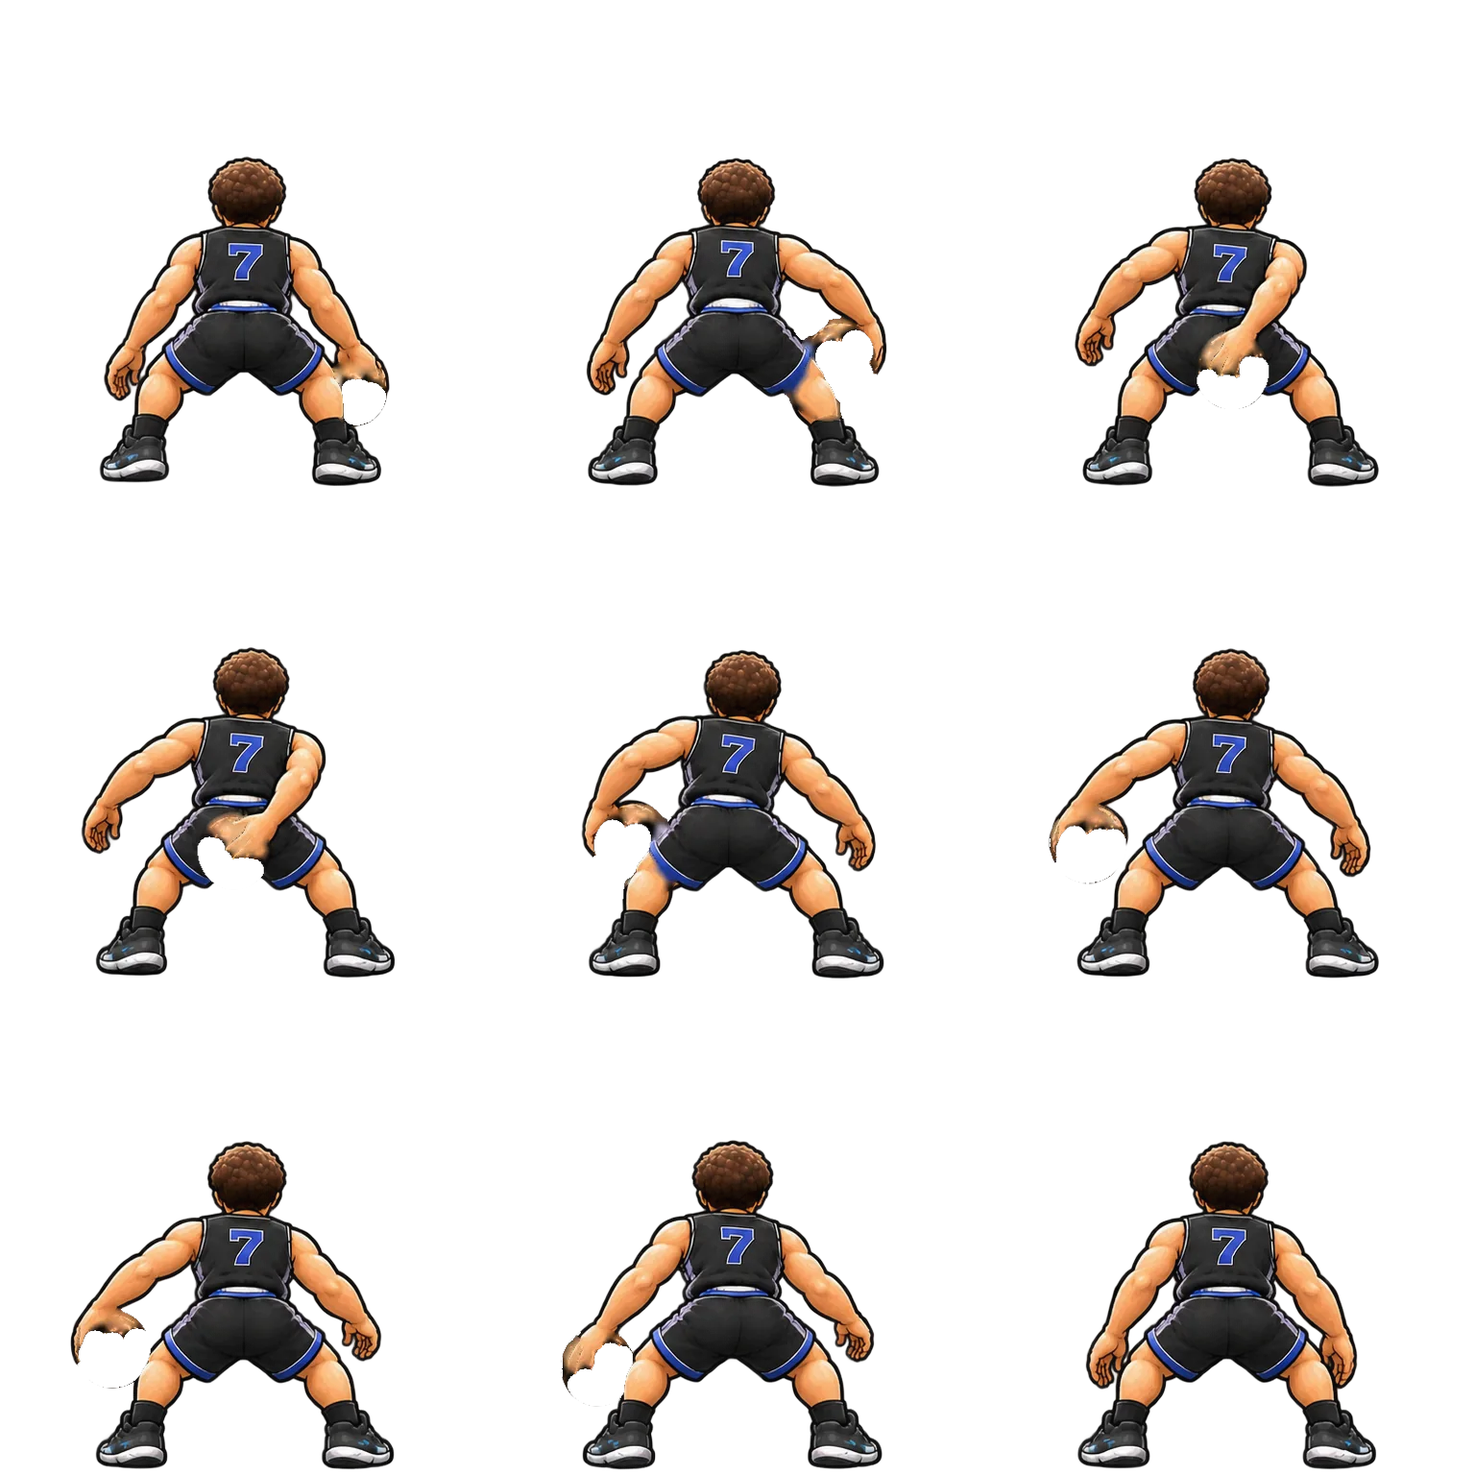
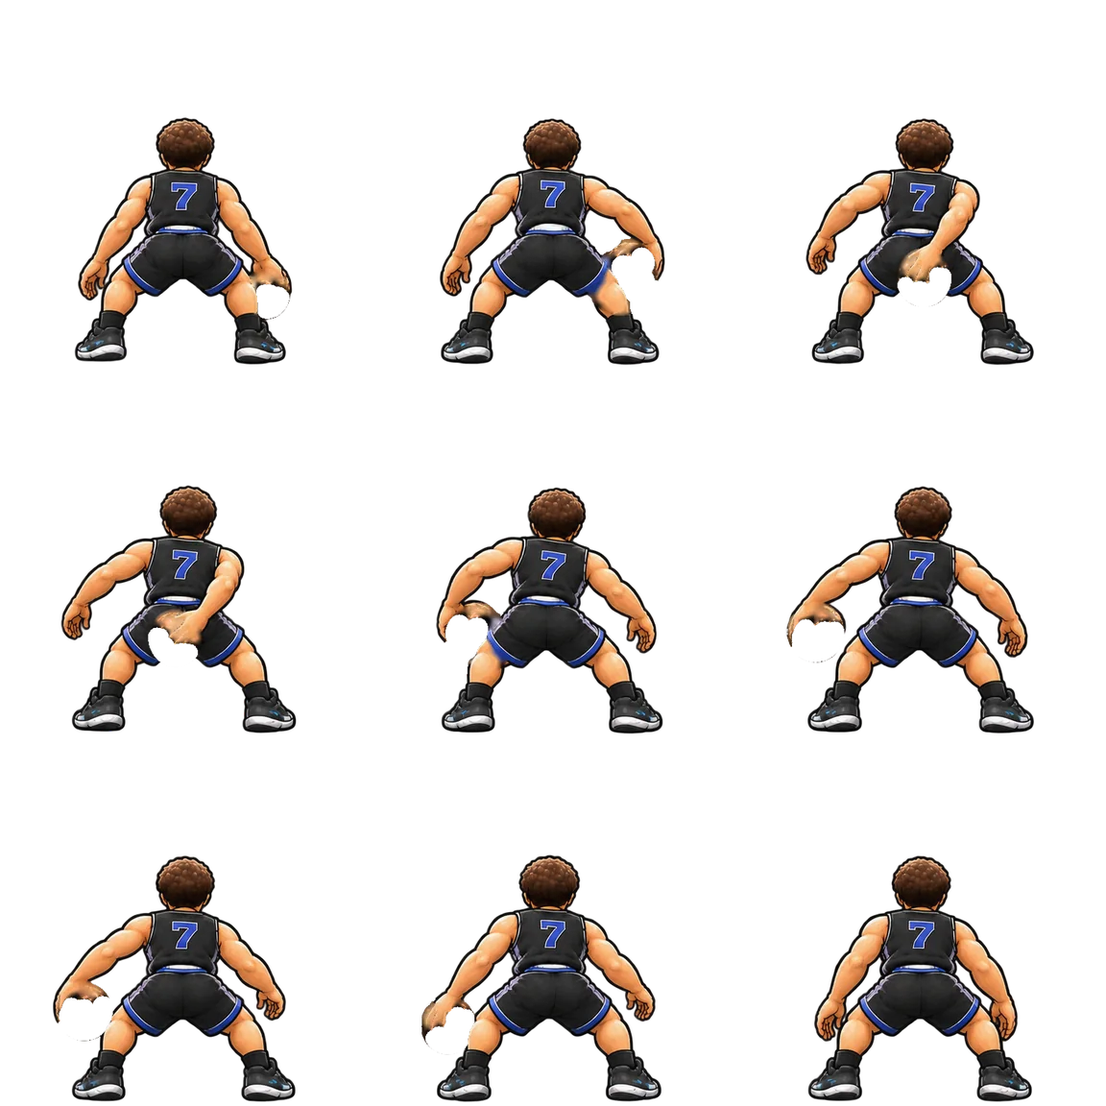
ボールまわし（頭・ひざ・股下8の字）をリアル寄りの新しい絵に／ゴール後に止まる対策（絵のメモリを減らして終了時に解放、結果画面のエラー対策）
Claude-Session: https://claude.ai/code/session_01BV7VTayadibtSK45JjDBAS

diff --git a/js/sprite7.js b/js/sprite7.js
@@ -1,8 +1,8 @@
 // あたらしい しゅじんこう（7ばん）の 絵の コマえらびと ボールの いち
 // ・シートは 3×3（1コマ 512px ＝ 2.2）。うしろすがた。x は 画面の 右が ＋、y は 足元が 0、z は カメラがわ（せなか がわ）が ＋
 // ・P は コマごとの 手（L/R）と、もとの 絵に かいてあった ボール（ball：x, y, 見えていた わりあい）の いち（/tmp/n7/build2.py で はかった）
-export const SHEETS7 = ["drib2R", "cross", "turnL", "turnR", "inoutR", "inoutL", "behind", "legs", "side", "jabR", "jabL", "spin", "head", "waist", "knees"]; // つかう シートだけ よみこむ
-const P = {"dribR":[{"L":[-0.463,0.463],"R":[0.438,0.451]},{"L":[-0.368,0.686],"R":[0.569,0.343]},{"L":[-0.376,0.729],"R":[0.638,0.305]},{"L":[-0.572,0.845],"R":[0.616,0.235]},{"L":[-0.529,0.687],"R":[0.516,0.416]},{"L":[-0.563,0.625],"R":[0.59,0.452]},{"L":[-0.57,0.482],"R":[0.541,0.423]},{"L":[-0.533,0.405],"R":[0.481,0.442]},{"L":[-0.483,0.419],"R":[0.471,0.43]}],"dribL":[{"L":[-0.442,0.451],"R":[0.458,0.463]},{"L":[-0.573,0.343],"R":[0.365,0.686]},{"L":[-0.642,0.305],"R":[0.372,0.729]},{"L":[-0.62,0.236],"R":[0.568,0.846]},{"L":[-0.52,0.416],"R":[0.525,0.687]},{"L":[-0.594,0.452],"R":[0.558,0.625]},{"L":[-0.545,0.423],"R":[0.566,0.482]},{"L":[-0.485,0.442],"R":[0.529,0.405]},{"L":[-0.475,0.43],"R":[0.478,0.419]}],"drib2R":[{"L":[-0.545,0.461],"R":[0.525,0.462]},{"L":[-0.594,0.582],"R":[0.55,0.421]},{"L":[-0.623,0.68],"R":[0.69,0.293]},{"L":[-0.626,0.77],"R":[0.558,0.212]},{"L":[-0.592,0.705],"R":[0.599,0.356]},{"L":[-0.575,0.591],"R":[0.575,0.432]},{"L":[-0.558,0.557],"R":[0.556,0.542]},{"L":[-0.544,0.547],"R":[0.596,0.523]},{"L":[-0.532,0.493],"R":[0.537,0.505]}],"drib2L":[{"L":[-0.529,0.462],"R":[0.54,0.461]},{"L":[-0.554,0.42],"R":[0.59,0.583]},{"L":[-0.694,0.293],"R":[0.619,0.68]},{"L":[-0.562,0.212],"R":[0.622,0.771]},{"L":[-0.603,0.356],"R":[0.587,0.706]},{"L":[-0.579,0.431],"R":[0.571,0.591]},{"L":[-0.561,0.542],"R":[0.554,0.556]},{"L":[-0.601,0.523],"R":[0.539,0.547]},{"L":[-0.542,0.505],"R":[0.527,0.493]}],"cross":[{"L":[-0.517,0.513],"R":[0.56,0.459]},{"L":[-0.539,0.484],"R":[0.701,0.47]},{"L":[-0.516,0.65],"R":[0.894,0.62]},{"L":[-0.704,0.789],"R":[0.94,0.637]},{"L":[-0.723,0.781],"R":[0.679,0.636]},{"L":[-0.609,0.647],"R":[0.335,0.706]},{"L":[-0.676,0.513],"R":[0.339,0.715]},{"L":[-0.845,0.539],"R":[0.402,0.666]},{"L":[-0.688,0.46],"R":[0.608,0.444]}],"turnL":[{"L":[-0.464,0.475],"R":[0.394,0.462]},{"L":[-0.498,0.535],"R":[0.44,0.613]},{"L":[-0.507,0.628],"R":[0.581,0.654]},{"L":[-0.532,0.794],"R":[0.478,0.803]},{"L":[-0.519,0.679],"R":[0.466,0.69]},{"L":[-0.553,0.549],"R":[0.298,0.732]},{"L":[-0.112,1.115],"R":[0.41,0.695]},{"L":[-0.127,1.094],"R":[0.33,0.606]},{"L":[-0.231,1.053],"R":[0.365,0.631]}],"turnR":[{"L":[-0.399,0.462],"R":[0.459,0.475]},{"L":[-0.445,0.613],"R":[0.494,0.535]},{"L":[-0.585,0.654],"R":[0.503,0.628]},{"L":[-0.483,0.803],"R":[0.527,0.794]},{"L":[-0.471,0.69],"R":[0.515,0.679]},{"L":[-0.302,0.732],"R":[0.549,0.549]},{"L":[-0.416,0.695],"R":[0.108,1.115]},{"L":[-0.336,0.606],"R":[0.123,1.094]},{"L":[-0.369,0.631],"R":[0.204,1.056]}],"inoutR":[{"L":[-0.461,0.488],"R":[0.351,0.504]},{"L":[-0.447,0.538],"R":[0.591,0.591]},{"L":[-0.514,0.548],"R":[0.627,0.78]},{"L":[-0.461,0.538],"R":[0.624,0.818]},{"L":[-0.487,0.484],"R":[0.521,0.577]},{"L":[-0.543,0.468],"R":[0.375,0.615]},{"L":[-0.53,0.469],"R":[0.336,0.616]},{"L":[-0.69,0.792],"R":[0.438,0.598]},{"L":[-0.715,0.755],"R":[0.431,0.609]}],"inoutL":[{"L":[-0.355,0.504],"R":[0.457,0.488]},{"L":[-0.595,0.591],"R":[0.443,0.538]},{"L":[-0.631,0.78],"R":[0.511,0.548]},{"L":[-0.628,0.818],"R":[0.457,0.538]},{"L":[-0.525,0.577],"R":[0.482,0.484]},{"L":[-0.38,0.615],"R":[0.538,0.468]},{"L":[-0.341,0.616],"R":[0.526,0.469]},{"L":[-0.443,0.598],"R":[0.686,0.792]},{"L":[-0.436,0.609],"R":[0.711,0.754]}],"behind":[{"ball":[0.487,0.429,0.75],"L":[-0.58,0.472],"R":[0.362,0.365]},{"ball":[0.403,0.533,0.54],"L":[-0.628,0.516],"R":[0.626,0.612]},{"ball":[0.011,0.525,0.79],"L":[-0.646,0.638],"R":[-0.041,0.57]},{"ball":[-0.054,0.575,0.78],"L":[-0.687,0.667],"R":[-0.043,0.616]},{"ball":[-0.442,0.563,0.52],"L":[-0.657,0.654],"R":[0.565,0.589]},{"ball":[-0.634,0.609,0.89],"L":[-0.774,0.65],"R":[0.583,0.563]},{"ball":[-0.6,0.55,0.92],"L":[-0.75,0.581],"R":[0.547,0.592]},{"ball":[-0.628,0.463,0.78],"L":[-0.719,0.504],"R":[0.555,0.587]},{"L":[-0.588,0.471],"R":[0.527,0.461]}],"legs":[{"ball":[0.407,0.56,0.8],"L":[-0.478,0.377],"R":[0.347,0.331]},{"ball":[0.511,0.381,0.77],"L":[-0.502,0.429],"R":[0.479,0.356]},{"ball":[-0.042,0.299,0.85],"L":[-0.458,0.403],"R":[0.047,0.344]},{"ball":[0.026,0.276,0.88],"L":[-0.318,0.695],"R":[0.114,0.328]},{"ball":[-0.144,0.269,0.95],"L":[-0.426,0.603],"R":[0.275,0.693]},{"ball":[-0.502,0.414,0.6],"L":[-0.62,0.468],"R":[0.546,0.49]},{"ball":[-0.511,0.515,0.81],"L":[-0.627,0.583],"R":[0.484,0.464]},{"ball":[-0.573,0.464,0.93],"L":[-0.487,0.382],"R":[0.475,0.427]},{"ball":[-0.503,0.457,0.68],"L":[-0.442,0.376],"R":[0.547,0.459]}],"side":[{"L":[-0.528,0.509],"R":[0.522,0.523]},{"L":[-0.417,0.729],"R":[0.584,0.501]},{"L":[-0.36,0.765],"R":[0.157,1.151]},{"L":[-0.52,0.725],"R":[0.157,1.14]},{"L":[-0.574,0.668],"R":[0.126,1.088]},{"L":[-0.534,0.566],"R":[0.398,0.704]},{"L":[-0.694,0.713],"R":[0.274,0.774]},{"L":[-0.71,0.685],"R":[0.269,0.825]},{"L":[-0.508,0.579],"R":[0.561,0.554]}],"stepR":[{"L":[-0.417,0.659],"R":[0.389,0.65]},{"L":[-0.432,0.708],"R":[0.437,0.697]},{"L":[-0.503,0.709],"R":[0.407,0.702]},{"L":[-0.522,0.707],"R":[0.428,0.708]},{"L":[-0.554,0.71],"R":[0.427,0.7]},{"L":[-0.513,0.707],"R":[0.426,0.699]},{"L":[-0.525,0.728],"R":[0.397,0.741]},{"L":[-0.486,0.719],"R":[0.382,0.712]},{"L":[-0.42,0.71],"R":[0.373,0.703]}],"stepL":[{"L":[-0.529,0.657],"R":[0.421,0.689]},{"L":[-0.557,0.69],"R":[0.46,0.683]},{"L":[-0.571,0.705],"R":[0.471,0.694]},{"L":[-0.58,0.684],"R":[0.498,0.671]},{"L":[-0.587,0.678],"R":[0.502,0.675]},{"L":[-0.565,0.69],"R":[0.495,0.685]},{"L":[-0.552,0.691],"R":[0.514,0.678]},{"L":[-0.506,0.673],"R":[0.464,0.679]},{"L":[-0.449,0.657],"R":[0.468,0.681]}],"jabR":[{"L":[-0.433,0.458],"R":[0.417,0.455]},{"L":[-0.501,0.54],"R":[0.541,0.406]},{"L":[-0.51,0.571],"R":[0.692,0.52]},{"L":[-0.576,0.627],"R":[0.749,0.567]},{"L":[-0.559,0.604],"R":[0.487,0.478]},{"L":[-0.473,0.564],"R":[0.448,0.503]},{"L":[-0.528,0.538],"R":[0.32,0.638]},{"L":[-0.484,0.507],"R":[0.457,0.511]},{"L":[-0.48,0.475],"R":[0.451,0.477]}],"jabL":[{"L":[-0.421,0.455],"R":[0.429,0.458]},{"L":[-0.546,0.406],"R":[0.497,0.54]},{"L":[-0.696,0.52],"R":[0.506,0.571]},{"L":[-0.754,0.567],"R":[0.572,0.627]},{"L":[-0.491,0.477],"R":[0.554,0.604]},{"L":[-0.452,0.503],"R":[0.469,0.564]},{"L":[-0.324,0.638],"R":[0.523,0.538]},{"L":[-0.461,0.511],"R":[0.48,0.507]},{"L":[-0.455,0.477],"R":[0.476,0.475]}],"spin":[{"L":[-0.496,0.672],"R":[0.405,0.672]},{"L":[-0.31,0.719],"R":[0.546,0.697]},{"L":[-0.238,0.796],"R":[0.109,1.065]},{"L":[-0.176,0.877],"R":[0.228,1.099]},{"R":[0.405,1.056]},{"L":[-0.428,0.716],"R":[0.176,1.078]},{"L":[-0.61,0.74],"R":[0.354,0.696]},{"L":[-0.56,0.721],"R":[0.445,0.665]},{"L":[-0.519,0.641],"R":[0.494,0.67]}],"jstop":[{"L":[-0.407,0.59],"R":[0.427,0.596]},{"L":[-0.436,0.719],"R":[0.459,0.743]},{"L":[-0.437,0.773],"R":[0.478,0.803]},{"L":[-0.474,0.709],"R":[0.484,0.733]},{"L":[-0.47,0.64],"R":[0.473,0.643]},{"L":[-0.466,0.728],"R":[0.46,0.725]},{"L":[-0.472,0.71],"R":[0.436,0.718]},{"L":[-0.465,0.654],"R":[0.448,0.652]},{"L":[-0.485,0.591],"R":[0.438,0.591]}],"head":[{"ball":[0.201,1.058,0.46],"L":[-0.251,0.853],"R":[0.21,1.115]},{"ball":[0.258,1.167,0.78],"L":[-0.244,0.918],"R":[0.297,1.118]},{"ball":[0.191,1.322,0.69],"L":[-0.202,1.001],"R":[-0.129,1.342]},{"ball":[0.138,1.354,0.49],"L":[-0.21,0.979],"R":[0.06,1.449]},{"L":[-0.281,1.243],"R":[0.189,1.056]},{"ball":[-0.415,1.117,0.92],"L":[-0.222,1.068],"R":[0.165,1.007]},{"ball":[-0.47,1.003,0.77],"L":[-0.495,0.873],"R":[0.184,0.97]},{"ball":[-0.457,0.911,0.65],"L":[-0.48,0.783],"R":[0.191,0.946]},{"ball":[-0.418,0.795,0.61],"L":[-0.41,0.686],"R":[0.198,0.896]}],"waist":[{"ball":[-0.008,0.635,0.84]},{"ball":[0.341,0.629,0.8],"L":[-0.236,0.719],"R":[0.51,0.651]},{"ball":[0.398,0.704,0.94],"L":[-0.398,0.571],"R":[0.506,0.71]},{"ball":[0.411,0.694,0.92],"L":[-0.453,0.494],"R":[0.522,0.691]},{"ball":[-0.033,0.622,0.88],"L":[-0.042,0.627],"R":[0.359,0.59]},{"ball":[-0.429,0.66,0.89],"L":[-0.544,0.646],"R":[0.415,0.562]},{"ball":[-0.488,0.613,0.94],"L":[-0.642,0.638],"R":[0.399,0.602]},{"ball":[-0.464,0.588,0.8],"L":[-0.602,0.596],"R":[0.219,0.742]},{"ball":[-0.014,0.601,0.84]}],"knees":[{"ball":[0.471,0.458,0.91],"L":[-0.46,0.497],"R":[0.485,0.556]},{"ball":[0.133,0.293,0.8],"L":[-0.456,0.452],"R":[0.396,0.48]},{"ball":[-0.164,0.273,0.9],"L":[-0.346,0.614],"R":[0.245,0.69]},{"ball":[-0.202,0.266,0.92],"L":[-0.304,0.65],"R":[0.326,0.622]},{"ball":[-0.459,0.475,0.66],"L":[-0.58,0.475],"R":[0.493,0.461]},{"ball":[-0.492,0.515,0.93],"L":[-0.446,0.366],"R":[0.525,0.485]},{"ball":[-0.505,0.454,0.85],"L":[-0.659,0.504],"R":[0.552,0.49]},{"ball":[-0.454,0.42,0.59],"L":[-0.619,0.551],"R":[0.524,0.546]},{"ball":[0.51,0.421,0.87],"L":[-0.36,0.59],"R":[0.586,0.525]}]};
+export const SHEETS7 = ["drib2R", "cross", "turnL", "turnR", "inoutR", "inoutL", "behind", "legs", "side", "jabR", "jabL", "spin", "head", "waist", "knees", "eight"]; // つかう シートだけ よみこむ
+const P = {"dribR":[{"L":[-0.463,0.463],"R":[0.438,0.451]},{"L":[-0.368,0.686],"R":[0.569,0.343]},{"L":[-0.376,0.729],"R":[0.638,0.305]},{"L":[-0.572,0.845],"R":[0.616,0.235]},{"L":[-0.529,0.687],"R":[0.516,0.416]},{"L":[-0.563,0.625],"R":[0.59,0.452]},{"L":[-0.57,0.482],"R":[0.541,0.423]},{"L":[-0.533,0.405],"R":[0.481,0.442]},{"L":[-0.483,0.419],"R":[0.471,0.43]}],"dribL":[{"L":[-0.442,0.451],"R":[0.458,0.463]},{"L":[-0.573,0.343],"R":[0.365,0.686]},{"L":[-0.642,0.305],"R":[0.372,0.729]},{"L":[-0.62,0.236],"R":[0.568,0.846]},{"L":[-0.52,0.416],"R":[0.525,0.687]},{"L":[-0.594,0.452],"R":[0.558,0.625]},{"L":[-0.545,0.423],"R":[0.566,0.482]},{"L":[-0.485,0.442],"R":[0.529,0.405]},{"L":[-0.475,0.43],"R":[0.478,0.419]}],"drib2R":[{"L":[-0.545,0.461],"R":[0.525,0.462]},{"L":[-0.594,0.582],"R":[0.55,0.421]},{"L":[-0.623,0.68],"R":[0.69,0.293]},{"L":[-0.626,0.77],"R":[0.558,0.212]},{"L":[-0.592,0.705],"R":[0.599,0.356]},{"L":[-0.575,0.591],"R":[0.575,0.432]},{"L":[-0.558,0.557],"R":[0.556,0.542]},{"L":[-0.544,0.547],"R":[0.596,0.523]},{"L":[-0.532,0.493],"R":[0.537,0.505]}],"drib2L":[{"L":[-0.529,0.462],"R":[0.54,0.461]},{"L":[-0.554,0.42],"R":[0.59,0.583]},{"L":[-0.694,0.293],"R":[0.619,0.68]},{"L":[-0.562,0.212],"R":[0.622,0.771]},{"L":[-0.603,0.356],"R":[0.587,0.706]},{"L":[-0.579,0.431],"R":[0.571,0.591]},{"L":[-0.561,0.542],"R":[0.554,0.556]},{"L":[-0.601,0.523],"R":[0.539,0.547]},{"L":[-0.542,0.505],"R":[0.527,0.493]}],"cross":[{"L":[-0.517,0.513],"R":[0.56,0.459]},{"L":[-0.539,0.484],"R":[0.701,0.47]},{"L":[-0.516,0.65],"R":[0.894,0.62]},{"L":[-0.704,0.789],"R":[0.94,0.637]},{"L":[-0.723,0.781],"R":[0.679,0.636]},{"L":[-0.609,0.647],"R":[0.335,0.706]},{"L":[-0.676,0.513],"R":[0.339,0.715]},{"L":[-0.845,0.539],"R":[0.402,0.666]},{"L":[-0.688,0.46],"R":[0.608,0.444]}],"turnL":[{"L":[-0.464,0.475],"R":[0.394,0.462]},{"L":[-0.498,0.535],"R":[0.44,0.613]},{"L":[-0.507,0.628],"R":[0.581,0.654]},{"L":[-0.532,0.794],"R":[0.478,0.803]},{"L":[-0.519,0.679],"R":[0.466,0.69]},{"L":[-0.553,0.549],"R":[0.298,0.732]},{"L":[-0.112,1.115],"R":[0.41,0.695]},{"L":[-0.127,1.094],"R":[0.33,0.606]},{"L":[-0.231,1.053],"R":[0.365,0.631]}],"turnR":[{"L":[-0.399,0.462],"R":[0.459,0.475]},{"L":[-0.445,0.613],"R":[0.494,0.535]},{"L":[-0.585,0.654],"R":[0.503,0.628]},{"L":[-0.483,0.803],"R":[0.527,0.794]},{"L":[-0.471,0.69],"R":[0.515,0.679]},{"L":[-0.302,0.732],"R":[0.549,0.549]},{"L":[-0.416,0.695],"R":[0.108,1.115]},{"L":[-0.336,0.606],"R":[0.123,1.094]},{"L":[-0.369,0.631],"R":[0.204,1.056]}],"inoutR":[{"L":[-0.461,0.488],"R":[0.351,0.504]},{"L":[-0.447,0.538],"R":[0.591,0.591]},{"L":[-0.514,0.548],"R":[0.627,0.78]},{"L":[-0.461,0.538],"R":[0.624,0.818]},{"L":[-0.487,0.484],"R":[0.521,0.577]},{"L":[-0.543,0.468],"R":[0.375,0.615]},{"L":[-0.53,0.469],"R":[0.336,0.616]},{"L":[-0.69,0.792],"R":[0.438,0.598]},{"L":[-0.715,0.755],"R":[0.431,0.609]}],"inoutL":[{"L":[-0.355,0.504],"R":[0.457,0.488]},{"L":[-0.595,0.591],"R":[0.443,0.538]},{"L":[-0.631,0.78],"R":[0.511,0.548]},{"L":[-0.628,0.818],"R":[0.457,0.538]},{"L":[-0.525,0.577],"R":[0.482,0.484]},{"L":[-0.38,0.615],"R":[0.538,0.468]},{"L":[-0.341,0.616],"R":[0.526,0.469]},{"L":[-0.443,0.598],"R":[0.686,0.792]},{"L":[-0.436,0.609],"R":[0.711,0.754]}],"behind":[{"ball":[0.487,0.429,0.75],"L":[-0.58,0.472],"R":[0.362,0.365]},{"ball":[0.403,0.533,0.54],"L":[-0.628,0.516],"R":[0.626,0.612]},{"ball":[0.011,0.525,0.79],"L":[-0.646,0.638],"R":[-0.041,0.57]},{"ball":[-0.054,0.575,0.78],"L":[-0.687,0.667],"R":[-0.043,0.616]},{"ball":[-0.442,0.563,0.52],"L":[-0.657,0.654],"R":[0.565,0.589]},{"ball":[-0.634,0.609,0.89],"L":[-0.774,0.65],"R":[0.583,0.563]},{"ball":[-0.6,0.55,0.92],"L":[-0.75,0.581],"R":[0.547,0.592]},{"ball":[-0.628,0.463,0.78],"L":[-0.719,0.504],"R":[0.555,0.587]},{"L":[-0.588,0.471],"R":[0.527,0.461]}],"legs":[{"ball":[0.407,0.56,0.8],"L":[-0.478,0.377],"R":[0.347,0.331]},{"ball":[0.511,0.381,0.77],"L":[-0.502,0.429],"R":[0.479,0.356]},{"ball":[-0.042,0.299,0.85],"L":[-0.458,0.403],"R":[0.047,0.344]},{"ball":[0.026,0.276,0.88],"L":[-0.318,0.695],"R":[0.114,0.328]},{"ball":[-0.144,0.269,0.95],"L":[-0.426,0.603],"R":[0.275,0.693]},{"ball":[-0.502,0.414,0.6],"L":[-0.62,0.468],"R":[0.546,0.49]},{"ball":[-0.511,0.515,0.81],"L":[-0.627,0.583],"R":[0.484,0.464]},{"ball":[-0.573,0.464,0.93],"L":[-0.487,0.382],"R":[0.475,0.427]},{"ball":[-0.503,0.457,0.68],"L":[-0.442,0.376],"R":[0.547,0.459]}],"side":[{"L":[-0.528,0.509],"R":[0.522,0.523]},{"L":[-0.417,0.729],"R":[0.584,0.501]},{"L":[-0.36,0.765],"R":[0.157,1.151]},{"L":[-0.52,0.725],"R":[0.157,1.14]},{"L":[-0.574,0.668],"R":[0.126,1.088]},{"L":[-0.534,0.566],"R":[0.398,0.704]},{"L":[-0.694,0.713],"R":[0.274,0.774]},{"L":[-0.71,0.685],"R":[0.269,0.825]},{"L":[-0.508,0.579],"R":[0.561,0.554]}],"stepR":[{"L":[-0.417,0.659],"R":[0.389,0.65]},{"L":[-0.432,0.708],"R":[0.437,0.697]},{"L":[-0.503,0.709],"R":[0.407,0.702]},{"L":[-0.522,0.707],"R":[0.428,0.708]},{"L":[-0.554,0.71],"R":[0.427,0.7]},{"L":[-0.513,0.707],"R":[0.426,0.699]},{"L":[-0.525,0.728],"R":[0.397,0.741]},{"L":[-0.486,0.719],"R":[0.382,0.712]},{"L":[-0.42,0.71],"R":[0.373,0.703]}],"stepL":[{"L":[-0.529,0.657],"R":[0.421,0.689]},{"L":[-0.557,0.69],"R":[0.46,0.683]},{"L":[-0.571,0.705],"R":[0.471,0.694]},{"L":[-0.58,0.684],"R":[0.498,0.671]},{"L":[-0.587,0.678],"R":[0.502,0.675]},{"L":[-0.565,0.69],"R":[0.495,0.685]},{"L":[-0.552,0.691],"R":[0.514,0.678]},{"L":[-0.506,0.673],"R":[0.464,0.679]},{"L":[-0.449,0.657],"R":[0.468,0.681]}],"jabR":[{"L":[-0.433,0.458],"R":[0.417,0.455]},{"L":[-0.501,0.54],"R":[0.541,0.406]},{"L":[-0.51,0.571],"R":[0.692,0.52]},{"L":[-0.576,0.627],"R":[0.749,0.567]},{"L":[-0.559,0.604],"R":[0.487,0.478]},{"L":[-0.473,0.564],"R":[0.448,0.503]},{"L":[-0.528,0.538],"R":[0.32,0.638]},{"L":[-0.484,0.507],"R":[0.457,0.511]},{"L":[-0.48,0.475],"R":[0.451,0.477]}],"jabL":[{"L":[-0.421,0.455],"R":[0.429,0.458]},{"L":[-0.546,0.406],"R":[0.497,0.54]},{"L":[-0.696,0.52],"R":[0.506,0.571]},{"L":[-0.754,0.567],"R":[0.572,0.627]},{"L":[-0.491,0.477],"R":[0.554,0.604]},{"L":[-0.452,0.503],"R":[0.469,0.564]},{"L":[-0.324,0.638],"R":[0.523,0.538]},{"L":[-0.461,0.511],"R":[0.48,0.507]},{"L":[-0.455,0.477],"R":[0.476,0.475]}],"spin":[{"L":[-0.496,0.672],"R":[0.405,0.672]},{"L":[-0.31,0.719],"R":[0.546,0.697]},{"L":[-0.238,0.796],"R":[0.109,1.065]},{"L":[-0.176,0.877],"R":[0.228,1.099]},{"R":[0.405,1.056]},{"L":[-0.428,0.716],"R":[0.176,1.078]},{"L":[-0.61,0.74],"R":[0.354,0.696]},{"L":[-0.56,0.721],"R":[0.445,0.665]},{"L":[-0.519,0.641],"R":[0.494,0.67]}],"jstop":[{"L":[-0.407,0.59],"R":[0.427,0.596]},{"L":[-0.436,0.719],"R":[0.459,0.743]},{"L":[-0.437,0.773],"R":[0.478,0.803]},{"L":[-0.474,0.709],"R":[0.484,0.733]},{"L":[-0.47,0.64],"R":[0.473,0.643]},{"L":[-0.466,0.728],"R":[0.46,0.725]},{"L":[-0.472,0.71],"R":[0.436,0.718]},{"L":[-0.465,0.654],"R":[0.448,0.652]},{"L":[-0.485,0.591],"R":[0.438,0.591]}],"head":[{"L":[-0.314,1.056],"R":[0.3,1.053]},{"L":[-0.333,1.046],"R":[0.356,1.046]},{"L":[-0.373,0.987],"R":[0.327,1.306]},{"L":[-0.383,1.255],"R":[0.361,1.262]},{"L":[-0.404,1.241],"R":[0.344,0.995]},{"L":[-0.417,1.052],"R":[0.326,1.029]},{"L":[-0.391,1.047],"R":[0.269,1.101]},{"L":[-0.207,1.283],"R":[0.304,1.073]},{"L":[-0.315,1.065],"R":[0.295,1.063]}],"waist":[{"ball":[-0.008,0.635,0.84]},{"ball":[0.341,0.629,0.8],"L":[-0.236,0.719],"R":[0.51,0.651]},{"ball":[0.398,0.704,0.94],"L":[-0.398,0.571],"R":[0.506,0.71]},{"ball":[0.411,0.694,0.92],"L":[-0.453,0.494],"R":[0.522,0.691]},{"ball":[-0.033,0.622,0.88],"L":[-0.042,0.627],"R":[0.359,0.59]},{"ball":[-0.429,0.66,0.89],"L":[-0.544,0.646],"R":[0.415,0.562]},{"ball":[-0.488,0.613,0.94],"L":[-0.642,0.638],"R":[0.399,0.602]},{"ball":[-0.464,0.588,0.8],"L":[-0.602,0.596],"R":[0.219,0.742]},{"ball":[-0.014,0.601,0.84]}],"knees":[{"L":[-0.239,0.43],"R":[0.208,0.437]},{"L":[-0.246,0.422],"R":[0.305,0.431]},{"L":[-0.253,0.412],"R":[0.398,0.416]},{"L":[-0.245,0.407],"R":[0.332,0.467]},{"L":[-0.256,0.388],"R":[0.218,0.393]},{"L":[-0.337,0.402],"R":[0.253,0.619]},{"L":[-0.45,0.445],"R":[0.249,0.643]},{"L":[-0.44,0.425],"R":[0.205,0.458]},{"L":[-0.239,0.426],"R":[0.216,0.429]}],"eight":[{"L":[-0.484,0.432],"R":[0.219,0.71]},{"L":[-0.521,0.424],"R":[0.223,0.7]},{"L":[-0.535,0.424],"R":[0.509,0.401]},{"L":[-0.541,0.444],"R":[0.535,0.467]},{"L":[-0.54,0.472],"R":[0.392,0.558]},{"L":[-0.541,0.474],"R":[0.223,0.693]},{"L":[-0.555,0.449],"R":[0.257,0.658]},{"L":[-0.609,0.444],"R":[0.27,0.651]},{"L":[-0.536,0.437],"R":[0.259,0.663]}]};
 
 const R = 0.17, FZ = -0.26, HZ = -0.3, TAU = Math.PI * 2;
 const clamp = (v, a, b) => Math.max(a, Math.min(b, v));
@@ -43,7 +43,15 @@ export function spritePose7(st) {
     const ph = cb * 0.5;
     const ZP = Array(9).fill(0.14); // もとの 絵の ボールは いつも 見えている ので 手まえに 出す
     // zs：ボールが からだの まえ（−、からだで かくれる）か せなかがわ（＋、見える）か
-    if (sk.handle === 'head') return loop(out, 'head', ph, [0, 1, 2, 3, 4, 5, 6, 7, 8], ZP);
+    // リアルな 絵（頭・ひざ・股下）：ボールは えんを えがいて うごかし、コマは ボールの いちに あわせて えらぶ
+    const th = (ph % 1) * TAU, sn = Math.sin(th), cs = Math.cos(th), deg = (th / TAU) * 360;
+    if (sk.handle === 'head') { const pick = [[45, 0], [110, 1], [160, 2], [200, 3], [250, 4], [300, 5], [340, 6], [361, 8]].find((q) => deg < q[0])[1];
+      out.sheet = 'head'; out.f = pick; out.ball = { x: 0.28 * sn, y: 1.32 + 0.08 * Math.max(0, -cs), z: -0.24 * cs }; return out; }
+    if (sk.handle === 'knees') { const x = 0.33 * sn, z = -0.24 * cs; out.sheet = 'knees';
+      out.f = x > 0.25 ? 2 : x > 0.1 ? (z < 0 ? 1 : 3) : x < -0.25 ? 6 : x < -0.1 ? (z < 0 ? 5 : 7) : (z < 0 ? 0 : 4);
+      out.ball = { x, y: 0.36, z }; return out; }
+    if (sk.handle === 'leg' || sk.handle === 'eight') { const x = 0.5 * sn, z = -0.2 * Math.sin(2 * th); out.sheet = 'eight';
+      out.f = Math.min(8, Math.floor((th / TAU) * 9)); out.ball = { x, y: 0.34 + 0.05 * Math.abs(sn), z: Math.abs(x) < 0.18 ? 0.06 : z }; return out; }
     if (sk.handle === 'wrap') return loop(out, 'waist', ph, [0, 1, 2, 3, 4, 5, 6, 7], ZP);
     if (sk.handle === 'knees') return loop(out, 'knees', ph, [0, 8, 1, 2, 3, 4, 5, 6], ZP);
     if (sk.handle === 'leg' || sk.handle === 'eight') return loop(out, 'knees', ph, [0, 1, 2, 3, 4, 5, 6, 7, 8], ZP);

diff --git a/js/scene.js b/js/scene.js
@@ -47,7 +47,7 @@ export function createScene(canvas, o) {
   const GK = (o.grow && o.grow.k) || 1; // そだつ：からだの 大きさ
   let pspr = null, psHit = false; const psMem = {}; const psT = {}; const NEW7 = !o.girl; const PSN = NEW7 ? SHEETS7 : SHEETS; const psPre = o.girl ? 'g_' : 'n_'; const PSROWS = NEW7 ? 3 : 2; const PSS = NEW7 ? 2.2 : 1.65; // おとこのこは 7ばんの あたらしい 絵（3×3）
   const impact = new THREE.Mesh(new THREE.RingGeometry(0.55, 0.75, 40), new THREE.MeshBasicMaterial({ color: 0xffffff, transparent: true, opacity: 0, depthWrite: false, side: THREE.DoubleSide })); impact.rotation.x = -Math.PI / 2; impact.visible = false; scene.add(impact); disposables.push(impact.geometry, impact.material);
-  if (human && o.sprite !== false) { let n = 0; const ld = new THREE.TextureLoader(); for (const k of PSN) { const t = ld.load(`img/player/${psPre}${k}.webp`, () => { if (++n === PSN.length) { const m = new THREE.SpriteMaterial({ map: psT[PSN[0]], transparent: true, alphaTest: 0.05 }); pspr = new THREE.Sprite(m); pspr.center.set(0.5, NEW7 ? 5 / 512 : 0.01); pspr.scale.set(PSS * GK, PSS * GK, 1); scene.add(pspr); human.setMainVisible(false); } }); t.colorSpace = THREE.SRGBColorSpace; t.wrapS = THREE.RepeatWrapping; psT[k] = t; } }
+  if (human && o.sprite !== false) { let n = 0; const ld = new THREE.TextureLoader(); for (const k of PSN) { const t = ld.load(`img/player/${psPre}${k}.webp`, () => { if (++n === PSN.length) { const m = new THREE.SpriteMaterial({ map: psT[PSN[0]], transparent: true, alphaTest: 0.05 }); disposables.push(m); pspr = new THREE.Sprite(m); pspr.center.set(0.5, NEW7 ? 5 / 512 : 0.01); pspr.scale.set(PSS * GK, PSS * GK, 1); scene.add(pspr); human.setMainVisible(false); } }); t.colorSpace = THREE.SRGBColorSpace; t.wrapS = THREE.RepeatWrapping; t.generateMipmaps = false; t.minFilter = THREE.LinearFilter; psT[k] = t; disposables.push(t); } } // おわったら かならず すてる（メモリが ふえつづけて とまるのを ふせぐ）
   const faceAtlas = o.human ? new THREE.TextureLoader().load('img/faces.png') : null; if (faceAtlas) faceAtlas.colorSpace = THREE.SRGBColorSpace;
   const mkFoe = (c, num, trim) => { const h = makeHuman(o.human, c, { num, trim, guide: false, skin: '#c98f66', shoe: '#22222a' }); h.root.visible = false; scene.add(h.root); return h; };
   const defs = o.human ? [mkFoe('#d9263c', 23, '#ffe03d'), mkFoe('#d9263c', 11, '#ffe03d'), mkFoe('#2a3a7a', 15, '#ffe03d'), mkFoe('#2a3a7a', 8, '#ffe03d')] : [];

diff --git a/js/run.js b/js/run.js
@@ -426,7 +426,8 @@ export function runStage(opts) {
     const par = orbs.length * 10; const hit = cuesAll ? cuesOk / cuesAll : 1; let stars;
     if (cam) stars = hit >= 0.85 && hearts === 3 ? 3 : hit >= 0.55 ? 2 : 1; else stars = score >= par * 1.12 ? 3 : score >= par * 0.85 ? 2 : 1;
     const res = { mode, score, stars, cam, hit, maxCombo, hearts, dribbles, orbsGot, speed: speedMax, counts, okCounts, failCounts, leftReps, rightReps, tiers: tiers.slice(0, 3), tracked: allF ? trackedF / allF : 0, tipIdx, hardest: hardest() };
-    stop(); onEnd(res);
+    try { stop(); } catch (e) { console.error(e); } // かたづけで エラーが でても けっかは かならず だす
+    try { onEnd(res); } catch (e) { console.error(e); overlay.innerHTML = `<div class="safe"><div class="safe-title">けっかを ひょうじ できませんでした</div><div class="safe-btns"><button id="errback"><span>🏠</span><b>もどる</b></button></div></div>`; const bt = document.getElementById('errback'); if (bt) bt.onclick = () => location.reload(); }
   }
   function stop() {
     dead = true; cancelAnimationFrame(raf); clearTimeout(safeTimer); window.removeEventListener('resize', resize); document.removeEventListener('keydown', onKey);
